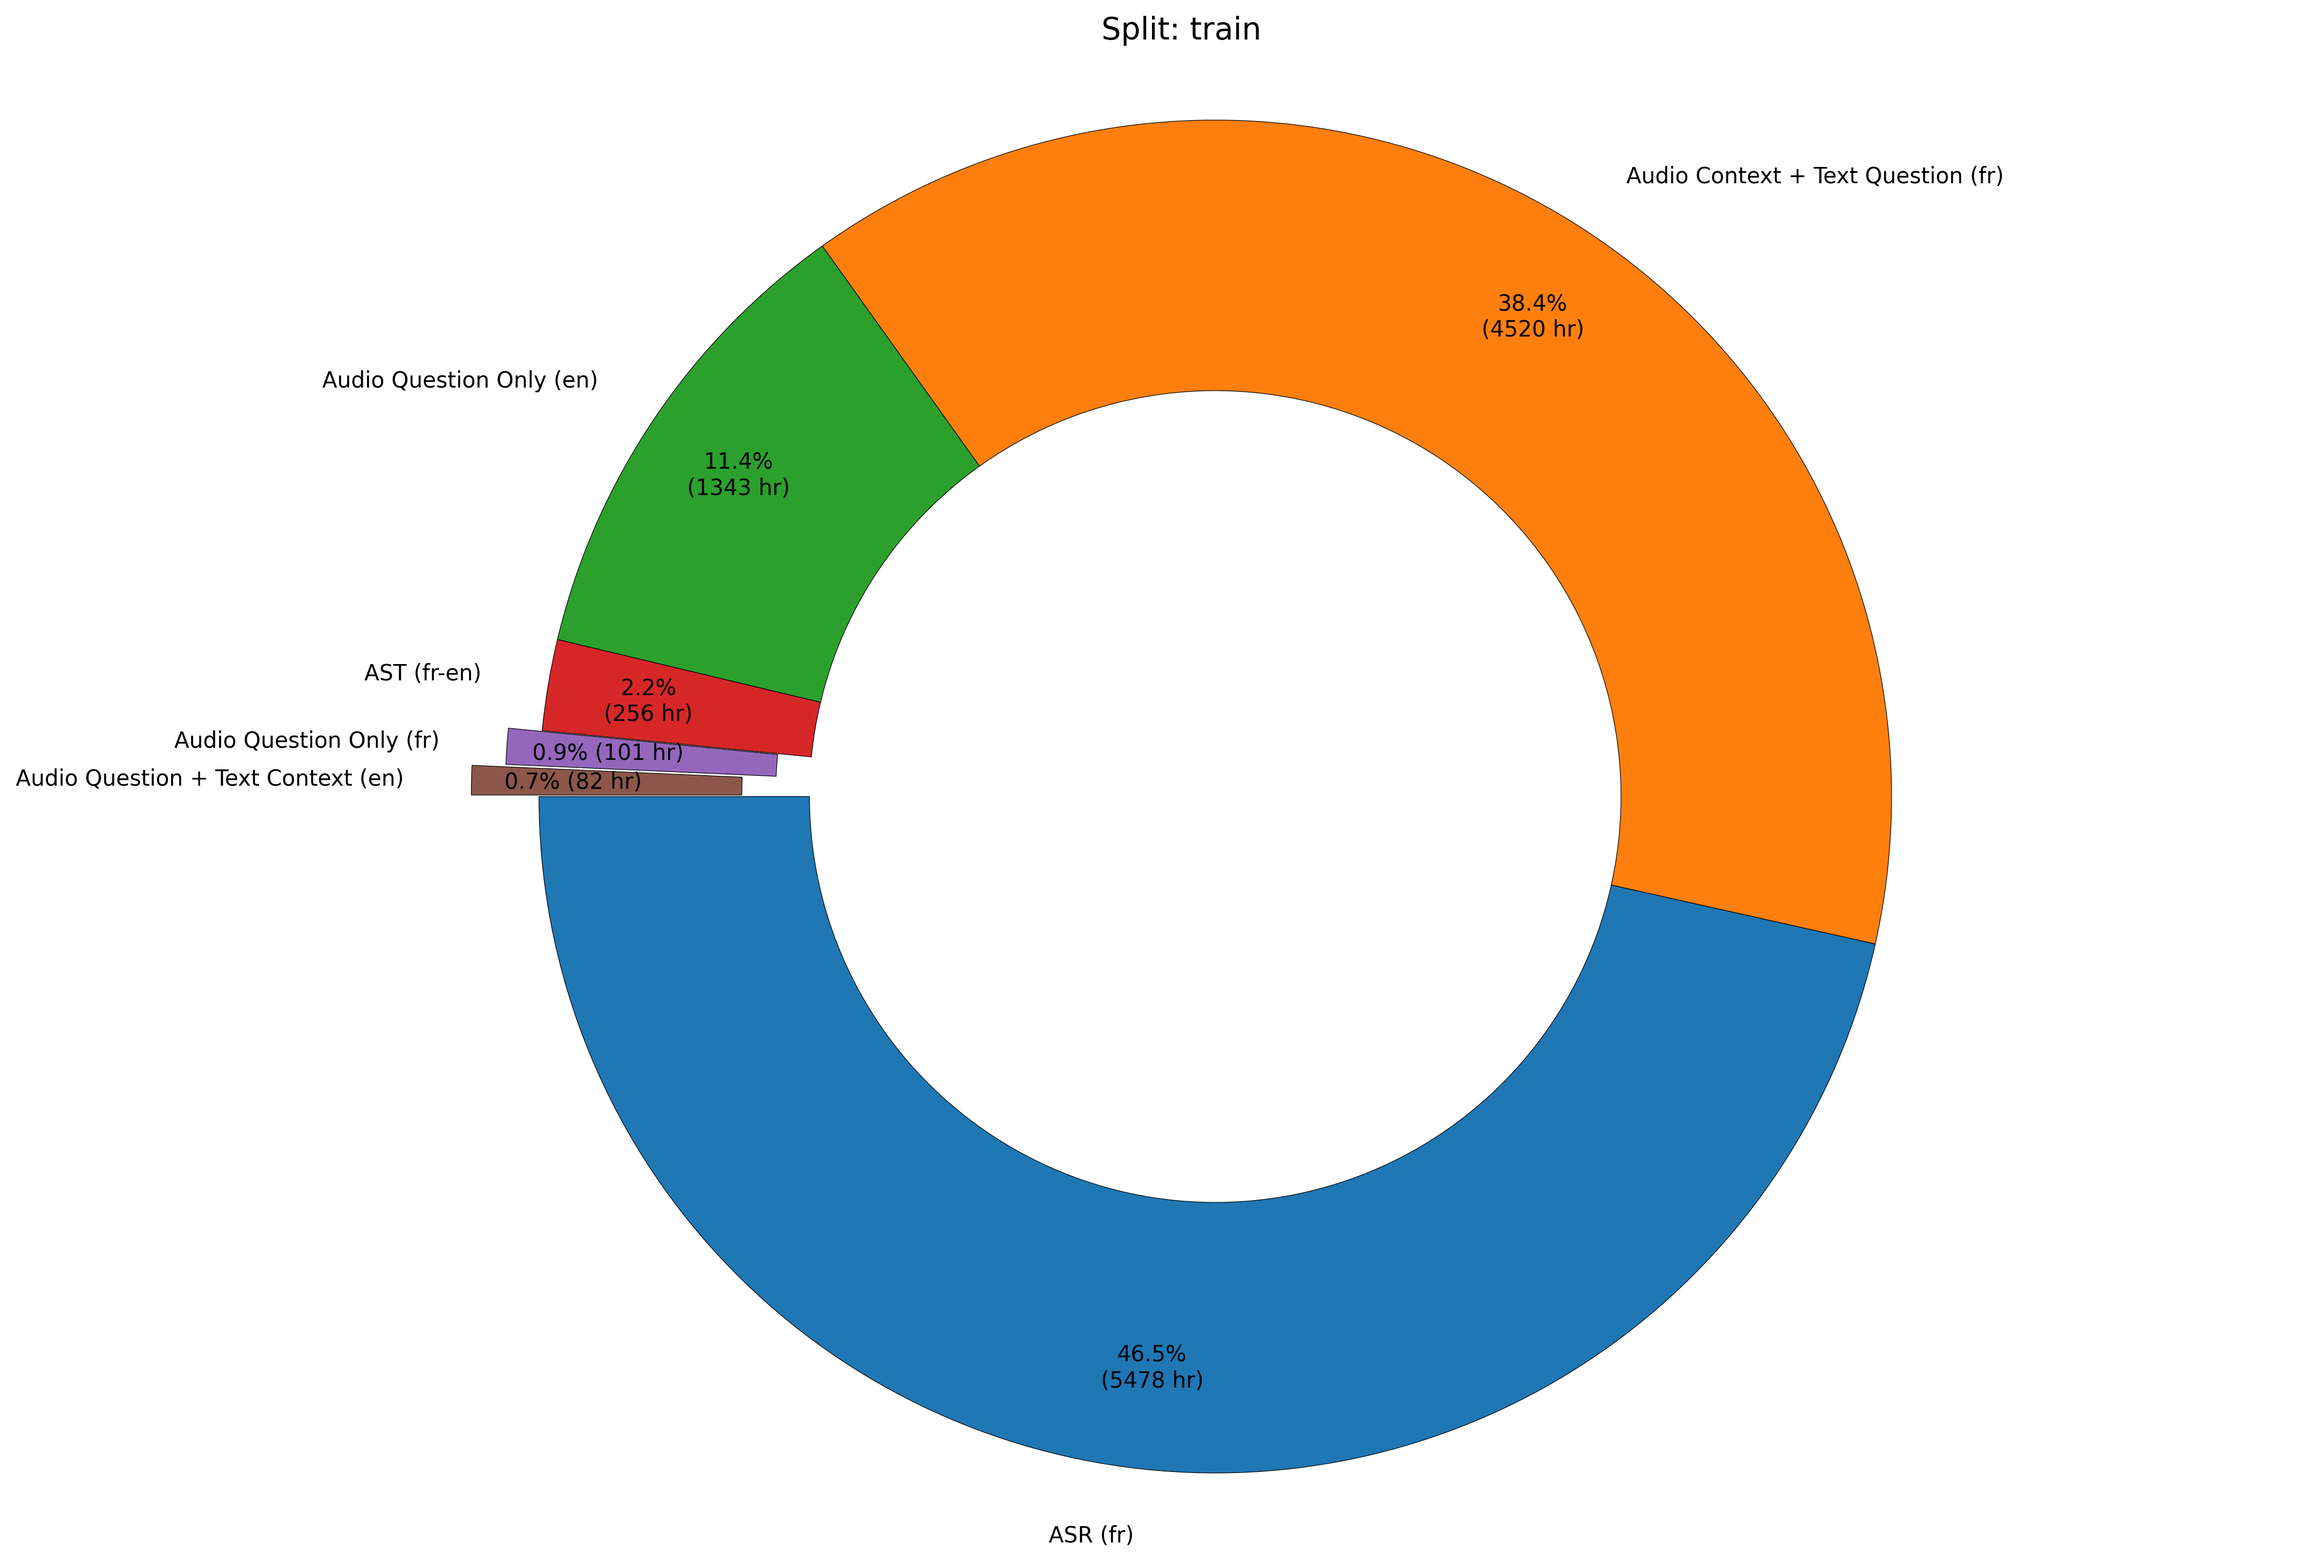
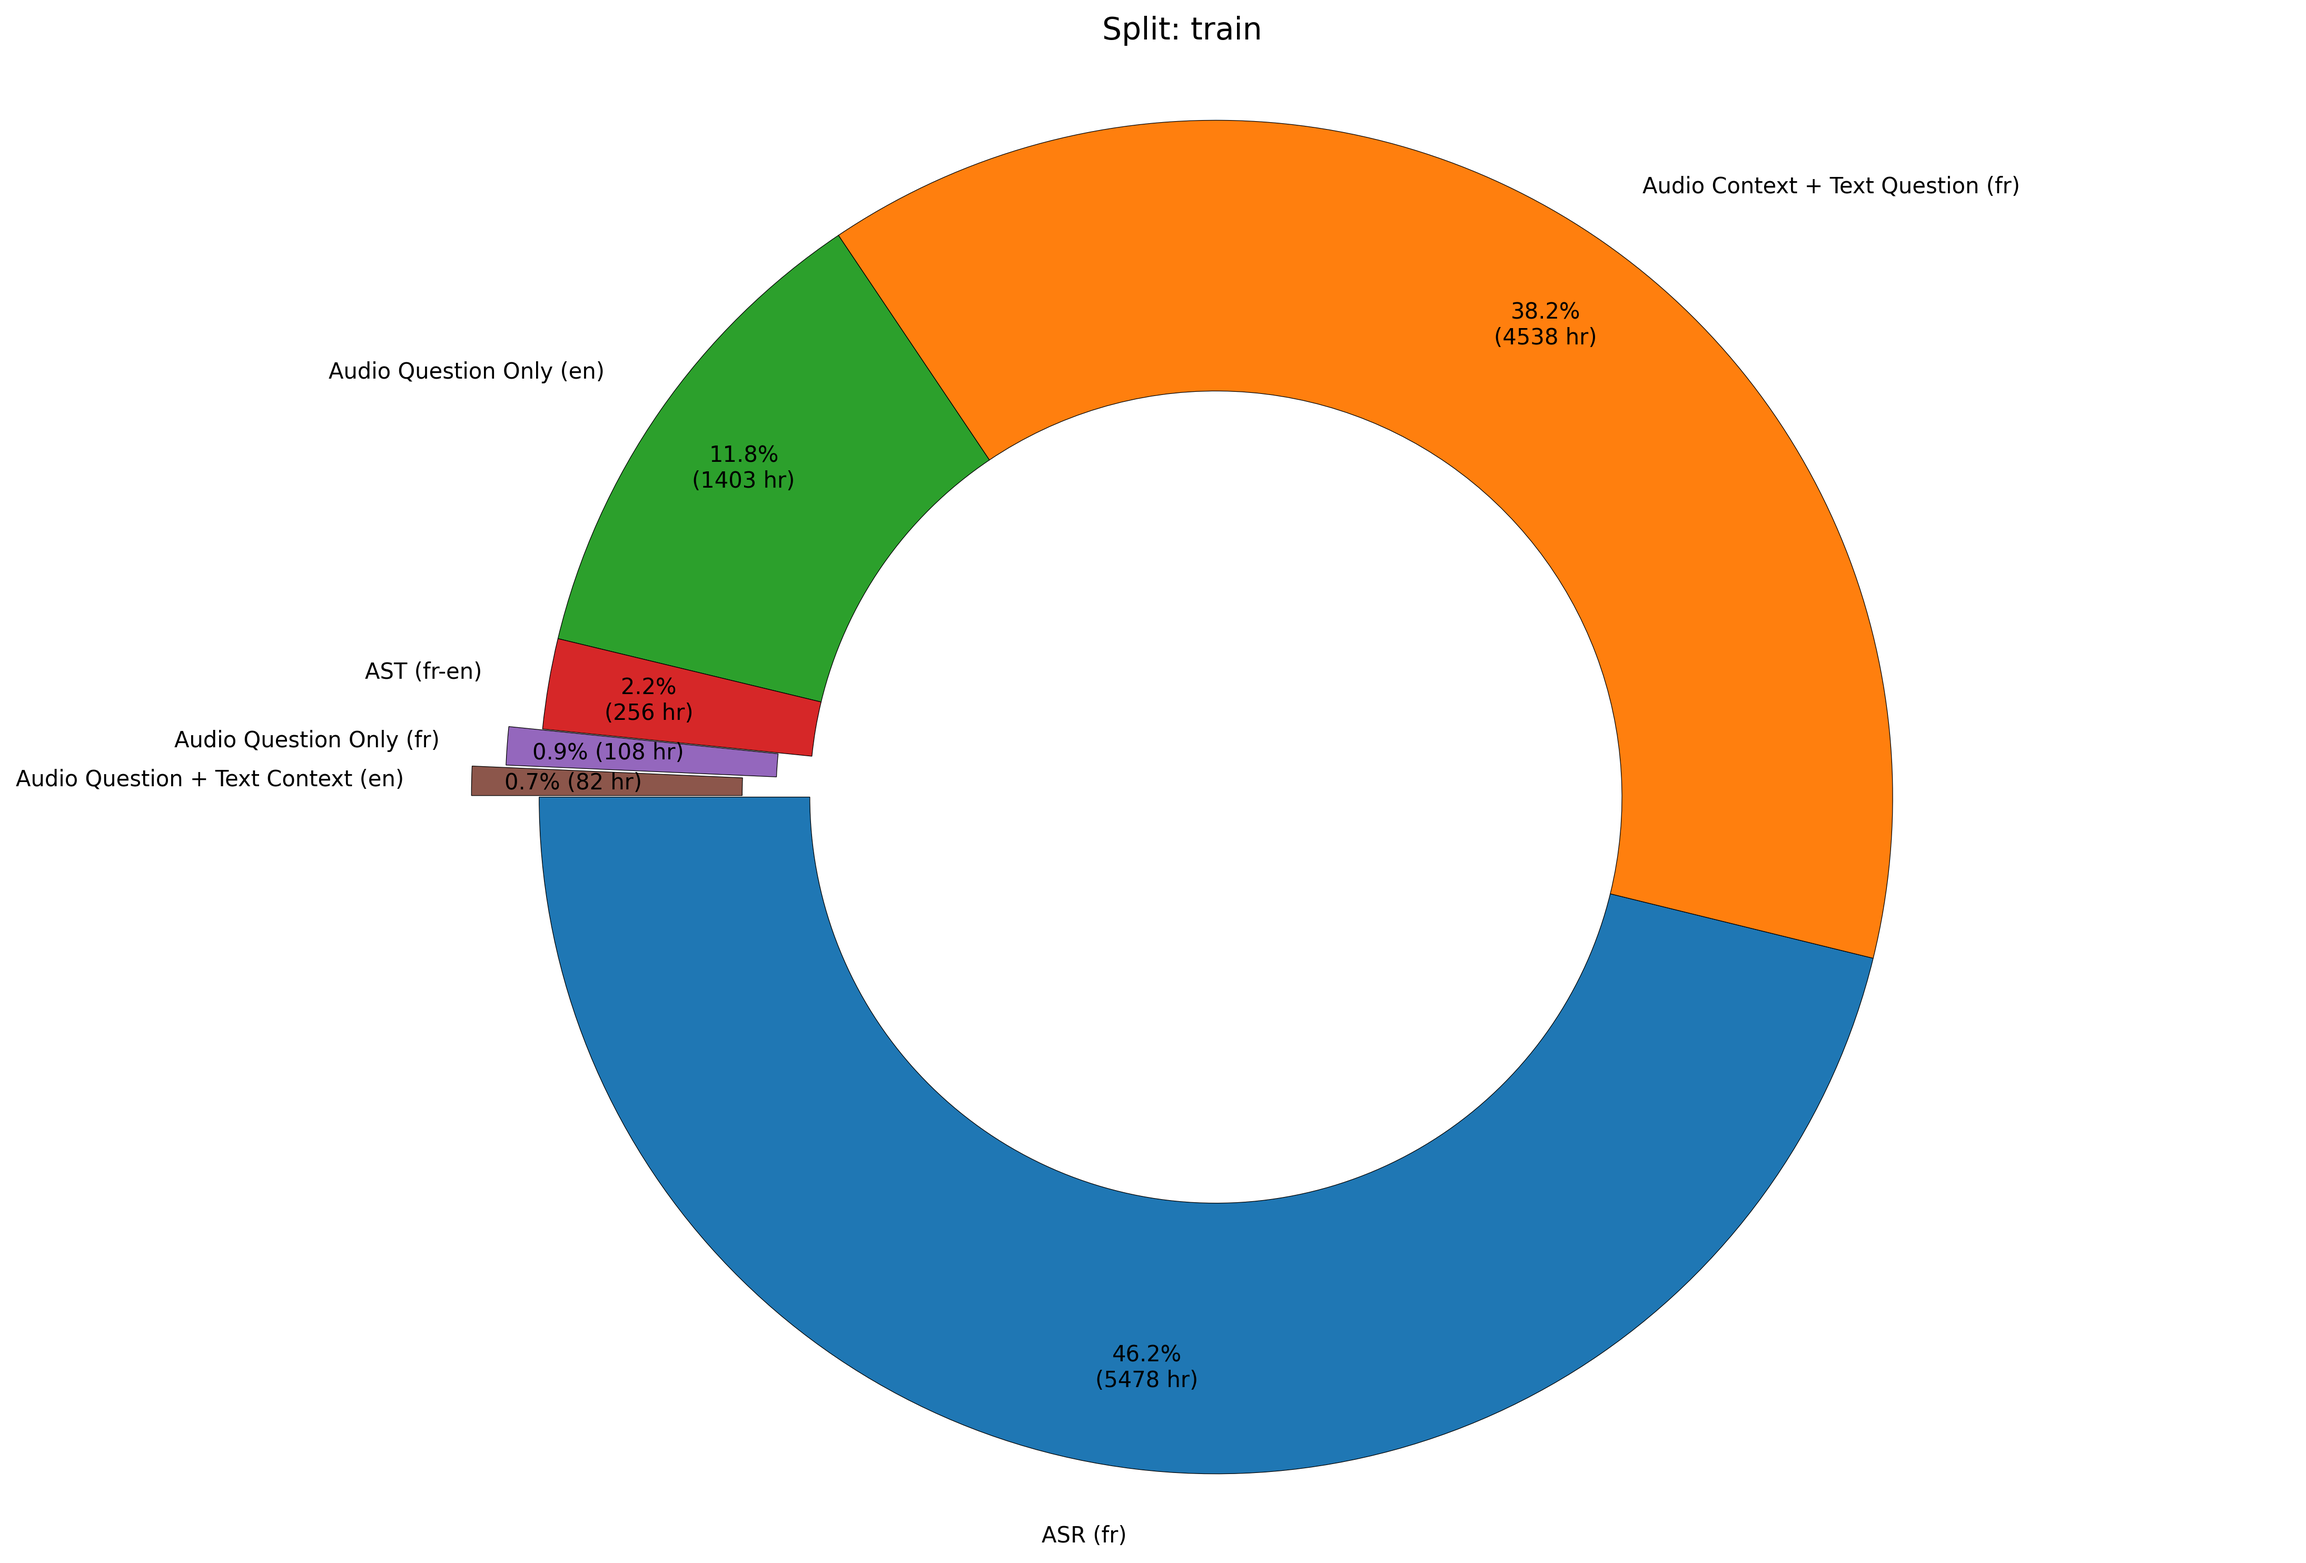
Update metadata csv

diff --git a/assets/nemo_datasets_summary.py b/assets/nemo_datasets_summary.py
@@ -8,25 +8,25 @@ from tqdm import tqdm
 CSV_FILE = "datasets_metadata.csv"
 
 FIELDNAMES = [
-    "nom_dataset",
+    "dataset_name",
     "split",
-    "type_tache",
-    "sous_tache",
-    "langue",
-    "nb_segments_audio",
-    "nb_samples",
-    "duree_totale_sec",
-    "duree_totale_dhms",
-    "duree_segment_min_sec",
-    "duree_segment_max_sec",
-    "nb_mots_instruction_moy",
-    "nb_mots_instruction_min",
-    "nb_mots_instruction_max",
-    "nb_mots_reponse_moy",
-    "nb_mots_reponse_min",
-    "nb_mots_reponse_max",
-    "note",
-    "path"
+    "task_type",
+    "sub_task",
+    "language",
+    "num_audio_segments",
+    "num_samples",
+    "total_duration_sec",
+    "total_duration_dhms",
+    "min_segment_duration_sec",
+    "max_segment_duration_sec",
+    "avg_instruction_words",
+    "min_instruction_words",
+    "max_instruction_words",
+    "avg_response_words",
+    "min_response_words",
+    "max_response_words",
+    "path",
+    "note"
 ]
 
 def seconds_to_dhms(seconds):
@@ -75,21 +75,21 @@ def parse_jsonl(jsonl_path):
 
     total_sec = round(sum(durations), 2)
     return {
-        "nb_segments_audio": len(durations),
-        "nb_samples": nb_samples,
-        "duree_totale_sec": total_sec,
-        "duree_totale_dhms": seconds_to_dhms(total_sec),
-        "duree_segment_min_sec": round(min(durations), 2) if durations else 0,
-        "duree_segment_max_sec": round(max(durations), 2) if durations else 0,
-        "nb_mots_instruction_moy": round(statistics.mean(instruction_counts), 2) if instruction_counts else 0,
-        "nb_mots_instruction_min": min(instruction_counts) if instruction_counts else 0,
-        "nb_mots_instruction_max": max(instruction_counts) if instruction_counts else 0,
-        "nb_mots_reponse_moy": round(statistics.mean(response_counts), 2) if response_counts else 0,
-        "nb_mots_reponse_min": min(response_counts) if response_counts else 0,
-        "nb_mots_reponse_max": max(response_counts) if response_counts else 0,
+        "num_audio_segments": len(durations),
+        "num_samples": nb_samples,
+        "total_duration_sec": total_sec,
+        "total_duration_dhms": seconds_to_dhms(total_sec),
+        "min_segment_duration_sec": round(min(durations), 2) if durations else 0,
+        "max_segment_duration_sec": round(max(durations), 2) if durations else 0,
+        "avg_instruction_words": round(statistics.mean(instruction_counts), 2) if instruction_counts else 0,
+        "min_instruction_words": min(instruction_counts) if instruction_counts else 0,
+        "max_instruction_words": max(instruction_counts) if instruction_counts else 0,
+        "avg_response_words": round(statistics.mean(response_counts), 2) if response_counts else 0,
+        "min_response_words": min(response_counts) if response_counts else 0,
+        "max_response_words": max(response_counts) if response_counts else 0,
     }
 
-def add_dataset_entry(jsonl_path, type_tache, sous_tache, langue, note="NeMo dataset"):
+def add_dataset_entry(jsonl_path, task_type, sub_task, language, note="NeMo dataset"):
     jsonl_path = Path(jsonl_path)
     parts = jsonl_path.parts
     
@@ -101,12 +101,12 @@ def add_dataset_entry(jsonl_path, type_tache, sous_tache, langue, note="NeMo dat
     stats = parse_jsonl(jsonl_path)
 
     entry = {
-        "nom_dataset": dataset_name,
+        "dataset_name": dataset_name,
         "split": split,
-        "type_tache": type_tache,
-        "sous_tache": sous_tache,
-        "langue": langue,
-        "path": str(jsonl_path.parent.as_posix()),
+        "task_type": task_type,
+        "sub_task": sub_task,
+        "language": language,
+        "path": str(jsonl_path),
         "note": note,
         **stats
     }
@@ -120,39 +120,39 @@ def add_dataset_entry(jsonl_path, type_tache, sous_tache, langue, note="NeMo dat
 
 def scan_and_update(root_dir):
     root_dir = Path(root_dir)
-    # jsonl_files = list(root_dir.rglob("*.jsonl"))
-    for jsonl_path in root_dir.rglob("*.jsonl"): #tqdm(jsonl_files, desc=f"Scanning {root_dir}", unit="file"):
+    for jsonl_path in root_dir.rglob("*.jsonl"):
         parts = jsonl_path.parts
 
         if "asr" in parts:
-            type_tache = "ASR"
+            task_type = "ASR"
             idx = parts.index("asr")
-            sous_tache = parts[idx + 1] if len(parts) > idx + 1 and parts[idx + 1] not in ("fr", "en") else "asr"
+            sub_task = parts[idx + 1] if len(parts) > idx + 1 and parts[idx + 1] not in ("fr", "en") else "asr"
         elif "ast" in parts:
-            type_tache = "AST"
+            task_type = "AST"
             idx = parts.index("ast")
-            sous_tache = parts[idx + 1] if len(parts) > idx + 1 and parts[idx + 1] not in ("fr-en", "en-fr") else "ast"
+            sub_task = parts[idx + 1] if len(parts) > idx + 1 and parts[idx + 1] not in ("fr-en", "en-fr") else "ast"
         elif "question-answering" in parts:
-            type_tache = "QA"
+            task_type = "QA"
             idx = parts.index("question-answering")
-            sous_tache = parts[idx + 1] if len(parts) > idx + 1 else "question-answering"
+            sub_task = parts[idx + 1] if len(parts) > idx + 1 else "question-answering"
         elif "multitask" in parts:
             idx = parts.index("multitask")
-            type_tache = "Multitask"
-            sous_tache = parts[idx + 3] if len(parts) > idx + 1 else ""
+            task_type = "Multitask"
+            sub_task = parts[idx + 3] if len(parts) > idx + 3 else ""
         else:
-            type_tache = "UNKNOWN"
-            sous_tache = ""
-        print(f" → type_tache={type_tache}, sous_tache={sous_tache.lower()}, file={jsonl_path}")
+            task_type = "UNKNOWN"
+            sub_task = ""
+
+        print(f" → task_type={task_type}, sub_task={sub_task.lower()}, file={jsonl_path}")
         
         if "multitask" not in parts:
-            langue = jsonl_path.parent.parent.name if len(jsonl_path.parent.parts) >= 2 else ""
+            language = jsonl_path.parent.parent.name if len(jsonl_path.parent.parts) >= 2 else ""
         else:
-            langue = "en"
+            language = "en"
 
-        add_dataset_entry(jsonl_path, type_tache, sous_tache.lower(), langue)
+        add_dataset_entry(jsonl_path, task_type, sub_task.lower(), language)
 
 if __name__ == "__main__":
     scan_and_update("/data-server/datasets/audio/nemo/single-turn")
     scan_and_update("/data-server/datasets/audio/nemo/multi-turn")
-    print(f"✅ CSV généré : {CSV_FILE}")
+    print(f"✅ CSV generated: {CSV_FILE}")
